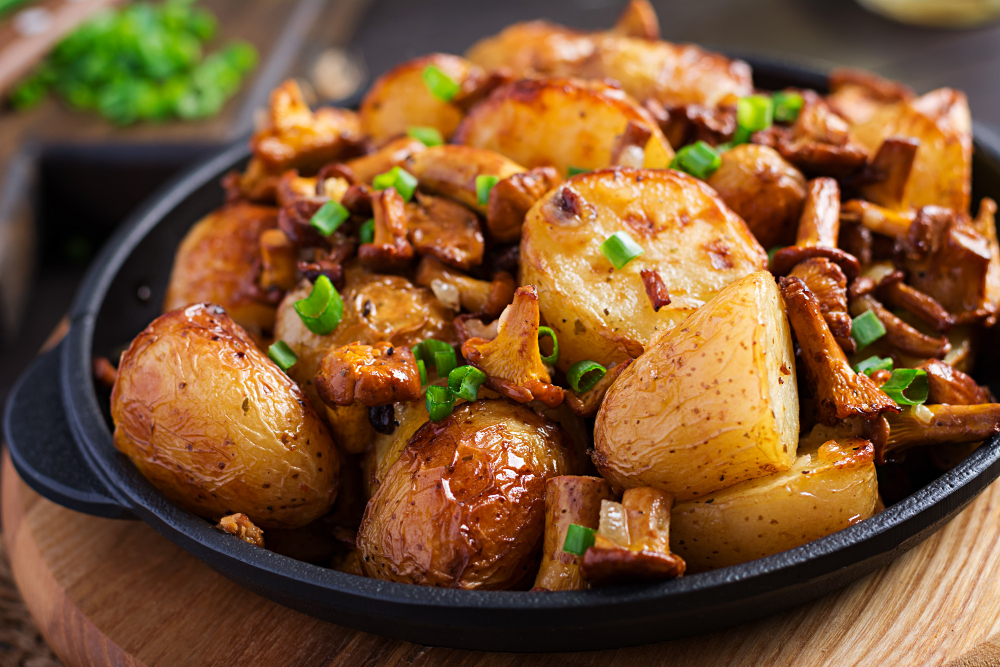
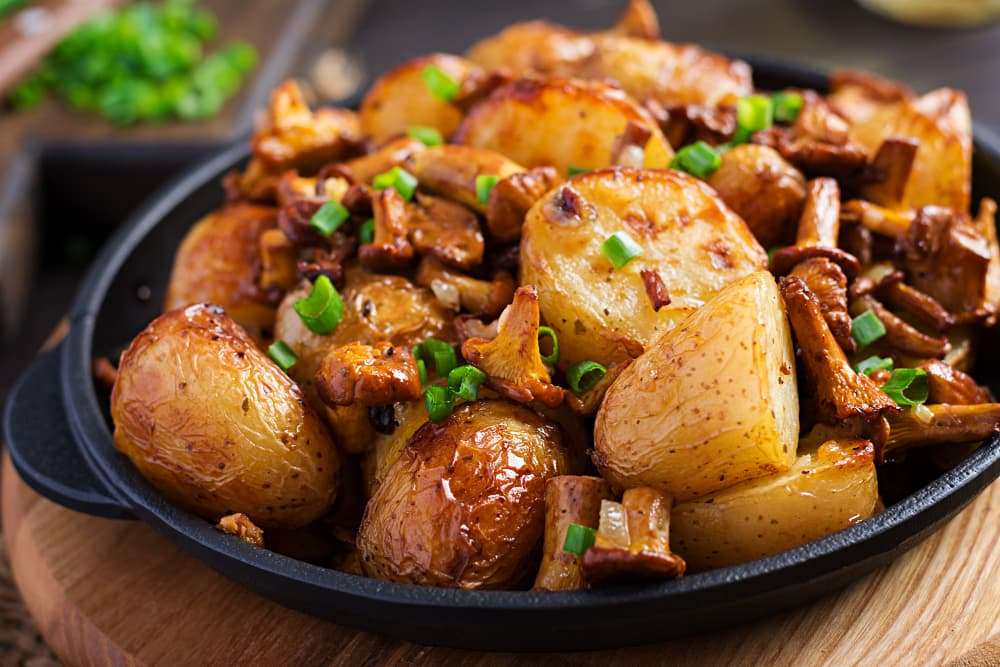
Resize images for optimization

diff --git a/bundle.js b/bundle.js
@@ -1,1 +1,1 @@
-(()=>{"use strict";var e={56:(e,r,n)=>{e.exports=function(e){var r=n.nc;r&&e.setAttribute("nonce",r)}},72:e=>{var r=[];function n(e){for(var n=-1,t=0;t<r.length;t++)if(r[t].identifier===e){n=t;break}return n}function t(e,t){for(var a={},i=[],c=0;c<e.length;c++){var s=e[c],l=t.base?s[0]+t.base:s[0],d=a[l]||0,p="".concat(l," ").concat(d);a[l]=d+1;var u=n(p),m={css:s[1],media:s[2],sourceMap:s[3],supports:s[4],layer:s[5]};if(-1!==u)r[u].references++,r[u].updater(m);else{var v=o(m,t);t.byIndex=c,r.splice(c,0,{identifier:p,updater:v,references:1})}i.push(p)}return i}function o(e,r){var n=r.domAPI(r);return n.update(e),function(r){if(r){if(r.css===e.css&&r.media===e.media&&r.sourceMap===e.sourceMap&&r.supports===e.supports&&r.layer===e.layer)return;n.update(e=r)}else n.remove()}}e.exports=function(e,o){var a=t(e=e||[],o=o||{});return function(e){e=e||[];for(var i=0;i<a.length;i++){var c=n(a[i]);r[c].references--}for(var s=t(e,o),l=0;l<a.length;l++){var d=n(a[l]);0===r[d].references&&(r[d].updater(),r.splice(d,1))}a=s}}},113:e=>{e.exports=function(e,r){if(r.styleSheet)r.styleSheet.cssText=e;else{for(;r.firstChild;)r.removeChild(r.firstChild);r.appendChild(document.createTextNode(e))}}},314:e=>{e.exports=function(e){var r=[];return r.toString=function(){return this.map(function(r){var n="",t=void 0!==r[5];return r[4]&&(n+="@supports (".concat(r[4],") {")),r[2]&&(n+="@media ".concat(r[2]," {")),t&&(n+="@layer".concat(r[5].length>0?" ".concat(r[5]):""," {")),n+=e(r),t&&(n+="}"),r[2]&&(n+="}"),r[4]&&(n+="}"),n}).join("")},r.i=function(e,n,t,o,a){"string"==typeof e&&(e=[[null,e,void 0]]);var i={};if(t)for(var c=0;c<this.length;c++){var s=this[c][0];null!=s&&(i[s]=!0)}for(var l=0;l<e.length;l++){var d=[].concat(e[l]);t&&i[d[0]]||(void 0!==a&&(void 0===d[5]||(d[1]="@layer".concat(d[5].length>0?" ".concat(d[5]):""," {").concat(d[1],"}")),d[5]=a),n&&(d[2]?(d[1]="@media ".concat(d[2]," {").concat(d[1],"}"),d[2]=n):d[2]=n),o&&(d[4]?(d[1]="@supports (".concat(d[4],") {").concat(d[1],"}"),d[4]=o):d[4]="".concat(o)),r.push(d))}},r}},417:e=>{e.exports=function(e,r){return r||(r={}),e?(e=String(e.__esModule?e.default:e),/^['"].*['"]$/.test(e)&&(e=e.slice(1,-1)),r.hash&&(e+=r.hash),/["'() \t\n]|(%20)/.test(e)||r.needQuotes?'"'.concat(e.replace(/"/g,'\\"').replace(/\n/g,"\\n"),'"'):e):e}},458:(e,r,n)=>{e.exports=n.p+"strawberry.jpg"},540:e=>{e.exports=function(e){var r=document.createElement("style");return e.setAttributes(r,e.attributes),e.insert(r,e.options),r}},601:e=>{e.exports=function(e){return e[1]}},659:e=>{var r={};e.exports=function(e,n){var t=function(e){if(void 0===r[e]){var n=document.querySelector(e);if(window.HTMLIFrameElement&&n instanceof window.HTMLIFrameElement)try{n=n.contentDocument.head}catch(e){n=null}r[e]=n}return r[e]}(e);if(!t)throw new Error("Couldn't find a style target. This probably means that the value for the 'insert' parameter is invalid.");t.appendChild(n)}},825:e=>{e.exports=function(e){if("undefined"==typeof document)return{update:function(){},remove:function(){}};var r=e.insertStyleElement(e);return{update:function(n){!function(e,r,n){var t="";n.supports&&(t+="@supports (".concat(n.supports,") {")),n.media&&(t+="@media ".concat(n.media," {"));var o=void 0!==n.layer;o&&(t+="@layer".concat(n.layer.length>0?" ".concat(n.layer):""," {")),t+=n.css,o&&(t+="}"),n.media&&(t+="}"),n.supports&&(t+="}");var a=n.sourceMap;a&&"undefined"!=typeof btoa&&(t+="\n/*# sourceMappingURL=data:application/json;base64,".concat(btoa(unescape(encodeURIComponent(JSON.stringify(a))))," */")),r.styleTagTransform(t,e,r.options)}(r,e,n)},remove:function(){!function(e){if(null===e.parentNode)return!1;e.parentNode.removeChild(e)}(r)}}}},911:(e,r,n)=>{n.d(r,{A:()=>u});var t=n(601),o=n.n(t),a=n(314),i=n.n(a),c=n(417),s=n.n(c),l=new URL(n(458),n.b),d=i()(o()),p=s()(l);d.push([e.id,`:root{--overlay-color: #0f172b;--bgcolor: #f1f8ff;--wheat-color: wheat;--white-color: #fff;--primary-color: red;--hover-color: #ff1919;--gray-color: #606060}*{margin:0;font-family:cursive;box-sizing:border-box}html{font-size:10px}body{overflow-x:hidden;max-width:100%;min-height:100vh;display:flex;flex-direction:column;background:var(--bgcolor);background:url(${p}) center/cover fixed,var(--overlay-color);background-blend-mode:soft-light;padding-top:80px}nav{position:fixed;top:0;right:0;left:0;width:inherit;background:var(--overlay-color);height:80px;display:flex;align-items:center;justify-content:center}.tool{border:none;padding:1rem;text-transform:uppercase;background:none;color:var(--wheat-color);font-weight:bold;transition:all .4s ease-out}.tool:hover{transform:scale(1.3);color:var(--primary-color)}.tool.active{color:var(--primary-color)}#menu{margin:0 3rem 0 3rem}.container{max-width:90%;margin:auto}.wrapper{display:flex;align-items:center;margin-top:6rem;justify-content:space-between}.wrapper .info{color:var(--wheat-color)}.menu-info h1,.about-info h1{color:var(--wheat-color);text-align:center;height:200px;line-height:200px}.info h1,.menu-info h1,.about-info h1{font-size:8rem}.info p{font-size:2rem}#booking-btn{margin-top:3rem;width:200px;padding:1.5rem;font-size:1.5rem;border:none;padding:1.5rem;width:200px;border-radius:.3rem;background:var(--primary-color);color:var(--wheat-color);font-weight:bold;text-transform:uppercase;cursor:pointer}#booking-btn:hover{background:var(--hover-color);color:var(--wheat-color)}#booking-btn.active{background:var(--hover-color);color:var(--wheat-color)}.not-active{background:rgba(0,0,0,0);color:var(--wheat-color)}.wrapper img{width:450px;height:auto}.animate{animation:animate 20s linear infinite}@keyframes animate{from{transform:rotateZ(0deg)}to{transform:rotateZ(360deg)}}.popular-items{font-size:3rem;margin-top:10rem;text-align:center;color:var(--wheat-color)}.row{margin-top:8rem;display:flex;flex-wrap:wrap;row-gap:2rem;justify-content:space-between;width:100%}#content .col{color:var(--wheat-color);background:var(--overlay-color)}#content .col:hover{background:var(--wheat-color);color:var(--overlay-color)}.about .col{margin-top:3rem}.about .col img{width:160px;height:auto;border-radius:50%;transition:all .5s ease-out}.about .col img:hover{transform:scale(1.1)}.about .col h3{margin-top:1rem}.about .col p{margin-bottom:1rem}.col{display:flex;flex-direction:column;align-items:center;justify-content:center;padding:4rem;width:250px;height:350px;border-radius:.5rem;box-shadow:.4rem .4rem 5rem rgba(0,0,0,.2);background:var(--white-color)}.col h3{font-size:2rem;margin-bottom:1rem}.col img{width:250px}.col p{color:var(--gray-color);font-size:1.6rem}footer{margin-top:8rem;width:100%;height:200px;display:flex;align-items:center;justify-content:center;background:var(--overlay-color);border-top:1px solid #484848}footer p{color:var(--wheat-color);font-size:1.4rem}`,""]);const u=d}},r={};function n(t){var o=r[t];if(void 0!==o)return o.exports;var a=r[t]={id:t,exports:{}};return e[t](a,a.exports,n),a.exports}n.m=e,n.n=e=>{var r=e&&e.__esModule?()=>e.default:()=>e;return n.d(r,{a:r}),r},n.d=(e,r)=>{for(var t in r)n.o(r,t)&&!n.o(e,t)&&Object.defineProperty(e,t,{enumerable:!0,get:r[t]})},n.g=function(){if("object"==typeof globalThis)return globalThis;try{return this||new Function("return this")()}catch(e){if("object"==typeof window)return window}}(),n.o=(e,r)=>Object.prototype.hasOwnProperty.call(e,r),(()=>{var e;n.g.importScripts&&(e=n.g.location+"");var r=n.g.document;if(!e&&r&&(r.currentScript&&"SCRIPT"===r.currentScript.tagName.toUpperCase()&&(e=r.currentScript.src),!e)){var t=r.getElementsByTagName("script");if(t.length)for(var o=t.length-1;o>-1&&(!e||!/^http(s?):/.test(e));)e=t[o--].src}if(!e)throw new Error("Automatic publicPath is not supported in this browser");e=e.replace(/^blob:/,"").replace(/#.*$/,"").replace(/\?.*$/,"").replace(/\/[^\/]+$/,"/"),n.p=e})(),n.b=document.baseURI||self.location.href,n.nc=void 0;var t=n(72),o=n.n(t),a=n(825),i=n.n(a),c=n(659),s=n.n(c),l=n(56),d=n.n(l),p=n(540),u=n.n(p),m=n(113),v=n.n(m),h=n(911),f={};f.styleTagTransform=v(),f.setAttributes=d(),f.insert=s().bind(null,"head"),f.domAPI=i(),f.insertStyleElement=u(),o()(h.A,f),h.A&&h.A.locals&&h.A.locals;const g=n.p+"hero.png",b=()=>{const e=document.createElement("div");e.innerHTML=`\n            <div class="wrapper container">\n                <div class="info">\n                    <h1>Enjoy Our Delicious Meal</h1>\n                    <p>\n                        Tempor erat elitr rebum at clita. Diam dolor diam ipsum\n                        sit. Aliqu diam amet diam et eos. Clita erat ipsum et\n                        lorem et sit, sed stet lorem sit clita duo justo magna\n                        dolore erat amet\n                    </p>\n                    <button id="booking-btn">Book A Table</button>\n                </div>\n                <img class="animate" src="${g}" />\n            </div>\n    `;const r=document.createElement("div");return r.innerHTML='\n        <div class="row container">\n                <div class="col">\n                    <h3>Master Chefs</h3>\n                    <p>Diam elitr kasd sed at elitr sed ipsum justo dolor sed clita amet diam</p>\n                </div>\n                <div class="col">\n                    <h3>Quality Food</h3>\n                    <p>Diam elitr kasd sed at elitr sed ipsum justo dolor sed clita amet diam</p>\n                </div>\n                <div class="col">\n                    <h3>Online Order</h3>\n                    <p>Diam elitr kasd sed at elitr sed ipsum justo dolor sed clita amet diam</p>\n                </div>\n                <div class="col">\n                    <h3>24/7 Service</h3>\n                    <p>Diam elitr kasd sed at elitr sed ipsum justo dolor sed clita amet diam</p>\n                </div>\n            </div>\n        </div>\n        </div>\n    ',e.appendChild(r),e},y=n.p+"lasagna.jpg",w=n.p+"pie.jpg",x=n.p+"potatoe.jpg",j=n.p+"sanwich.jpg",k=n.p+"pizza.jpg",M=n.p+"kagyana.jpg",T=n.p+"vegetable.jpg";var E=n(458);const S=()=>{const e=document.createElement("div");e.innerHTML='\n            <div class="menu-info">\n                <h1>Food Menu</h1>\n            </div>\n    ';const r=document.createElement("div");return r.innerHTML=`\n        <h3 class="popular-items">Table Menu</h3>\n            <div class="row container">\n                <div class="col">\n                    <h3>Master Chefs</h3>\n                    <img src="${y}" />\n                </div>\n                <div class="col">\n                    <h3>Quality Food</h3>\n                    <img src="${w}" />\n                </div>\n                <div class="col">\n                    <h3>Online Order</h3>\n                    <img src="${x}" />\n                </div>\n                <div class="col">\n                    <h3>24/7 Service</h3>\n                    <img src="${j}" />\n                </div>\n                <div class="col">\n                    <h3>Master Chefs</h3>\n                    <img src="${k}" />\n                </div>\n                <div class="col">\n                    <h3>Quality Food</h3>\n                    <img src="${M}" />\n                </div>\n                <div class="col">\n                    <h3>24/7 Service</h3>\n                    <img src="${T}" />\n                </div>\n                <div class="col">\n                    <h3>24/7 Service</h3>\n                    <img src="${E}" />\n                </div>\n            </div>\n        </div>\n\n    `,e.appendChild(r),e},C=n.p+"team-1.jpg",L=n.p+"team-2.jpg",$=n.p+"team-3.jpg",A=n.p+"team-4.jpg",D=()=>{const e=document.createElement("div");e.innerHTML='\n            <div class="about-info">\n                <h1>About Us</h1>\n            </div>\n    ';const r=document.createElement("div");return r.innerHTML=`\n        <h3 class="popular-items">Our Master Chefs</h3>\n            <div class="row container">\n                <div class="col">\n                    <img src="${C}" />\n                    <h3>Full Name</h3>\n                    <p>Designa</p>\n                </div>\n                <div class="col">\n                    <img src="${L}" />\n                    <h3>Full Name</h3>\n                    <p>Designa</p>\n                </div>\n                <div class="col">\n                    <img src="${$}" />\n                    <h3>Full Name</h3>\n                    <p>Designa</p>\n                </div>\n                <div class="col">\n                    <img src="${A}" />\n                    <h3>Full Name</h3>\n                    <p>Designa</p>\n                </div>\n            </div>\n        </div>\n\n    `,e.appendChild(r),e},z=document.querySelector("#content"),F=document.querySelector("#home-btn"),O=document.querySelector("#menu-btn"),N=document.querySelector("#about-btn"),H=document.querySelectorAll(".tool");H.forEach(e=>{e.addEventListener("click",()=>{H.forEach(e=>{e.classList.remove("active")}),e.classList.add("active")})});const I=e=>{q(),z.appendChild(e())},q=()=>{z.innerHTML=""};F.addEventListener("click",()=>{I(b)}),O.addEventListener("click",()=>I(S)),N.addEventListener("click",()=>I(D)),document.addEventListener("DOMContentLoaded",()=>{I(b)})})();
+(()=>{"use strict";var e={56:(e,n,r)=>{e.exports=function(e){var n=r.nc;n&&e.setAttribute("nonce",n)}},72:e=>{var n=[];function r(e){for(var r=-1,t=0;t<n.length;t++)if(n[t].identifier===e){r=t;break}return r}function t(e,t){for(var a={},i=[],c=0;c<e.length;c++){var l=e[c],s=t.base?l[0]+t.base:l[0],d=a[s]||0,p="".concat(s," ").concat(d);a[s]=d+1;var u=r(p),m={css:l[1],media:l[2],sourceMap:l[3],supports:l[4],layer:l[5]};if(-1!==u)n[u].references++,n[u].updater(m);else{var v=o(m,t);t.byIndex=c,n.splice(c,0,{identifier:p,updater:v,references:1})}i.push(p)}return i}function o(e,n){var r=n.domAPI(n);return r.update(e),function(n){if(n){if(n.css===e.css&&n.media===e.media&&n.sourceMap===e.sourceMap&&n.supports===e.supports&&n.layer===e.layer)return;r.update(e=n)}else r.remove()}}e.exports=function(e,o){var a=t(e=e||[],o=o||{});return function(e){e=e||[];for(var i=0;i<a.length;i++){var c=r(a[i]);n[c].references--}for(var l=t(e,o),s=0;s<a.length;s++){var d=r(a[s]);0===n[d].references&&(n[d].updater(),n.splice(d,1))}a=l}}},113:e=>{e.exports=function(e,n){if(n.styleSheet)n.styleSheet.cssText=e;else{for(;n.firstChild;)n.removeChild(n.firstChild);n.appendChild(document.createTextNode(e))}}},314:e=>{e.exports=function(e){var n=[];return n.toString=function(){return this.map(function(n){var r="",t=void 0!==n[5];return n[4]&&(r+="@supports (".concat(n[4],") {")),n[2]&&(r+="@media ".concat(n[2]," {")),t&&(r+="@layer".concat(n[5].length>0?" ".concat(n[5]):""," {")),r+=e(n),t&&(r+="}"),n[2]&&(r+="}"),n[4]&&(r+="}"),r}).join("")},n.i=function(e,r,t,o,a){"string"==typeof e&&(e=[[null,e,void 0]]);var i={};if(t)for(var c=0;c<this.length;c++){var l=this[c][0];null!=l&&(i[l]=!0)}for(var s=0;s<e.length;s++){var d=[].concat(e[s]);t&&i[d[0]]||(void 0!==a&&(void 0===d[5]||(d[1]="@layer".concat(d[5].length>0?" ".concat(d[5]):""," {").concat(d[1],"}")),d[5]=a),r&&(d[2]?(d[1]="@media ".concat(d[2]," {").concat(d[1],"}"),d[2]=r):d[2]=r),o&&(d[4]?(d[1]="@supports (".concat(d[4],") {").concat(d[1],"}"),d[4]=o):d[4]="".concat(o)),n.push(d))}},n}},417:e=>{e.exports=function(e,n){return n||(n={}),e?(e=String(e.__esModule?e.default:e),/^['"].*['"]$/.test(e)&&(e=e.slice(1,-1)),n.hash&&(e+=n.hash),/["'() \t\n]|(%20)/.test(e)||n.needQuotes?'"'.concat(e.replace(/"/g,'\\"').replace(/\n/g,"\\n"),'"'):e):e}},458:(e,n,r)=>{e.exports=r.p+"strawberry.jpg"},540:e=>{e.exports=function(e){var n=document.createElement("style");return e.setAttributes(n,e.attributes),e.insert(n,e.options),n}},601:e=>{e.exports=function(e){return e[1]}},659:e=>{var n={};e.exports=function(e,r){var t=function(e){if(void 0===n[e]){var r=document.querySelector(e);if(window.HTMLIFrameElement&&r instanceof window.HTMLIFrameElement)try{r=r.contentDocument.head}catch(e){r=null}n[e]=r}return n[e]}(e);if(!t)throw new Error("Couldn't find a style target. This probably means that the value for the 'insert' parameter is invalid.");t.appendChild(r)}},825:e=>{e.exports=function(e){if("undefined"==typeof document)return{update:function(){},remove:function(){}};var n=e.insertStyleElement(e);return{update:function(r){!function(e,n,r){var t="";r.supports&&(t+="@supports (".concat(r.supports,") {")),r.media&&(t+="@media ".concat(r.media," {"));var o=void 0!==r.layer;o&&(t+="@layer".concat(r.layer.length>0?" ".concat(r.layer):""," {")),t+=r.css,o&&(t+="}"),r.media&&(t+="}"),r.supports&&(t+="}");var a=r.sourceMap;a&&"undefined"!=typeof btoa&&(t+="\n/*# sourceMappingURL=data:application/json;base64,".concat(btoa(unescape(encodeURIComponent(JSON.stringify(a))))," */")),n.styleTagTransform(t,e,n.options)}(n,e,r)},remove:function(){!function(e){if(null===e.parentNode)return!1;e.parentNode.removeChild(e)}(n)}}}},911:(e,n,r)=>{r.d(n,{A:()=>u});var t=r(601),o=r.n(t),a=r(314),i=r.n(a),c=r(417),l=r.n(c),s=new URL(r(458),r.b),d=i()(o()),p=l()(s);d.push([e.id,`:root{--overlay-color: #0f172b;--bgcolor: #f1f8ff;--wheat-color: wheat;--white-color: #fff;--primary-color: red;--hover-color: #ff1919;--gray-color: #606060}*{margin:0;font-family:cursive;box-sizing:border-box}html{font-size:10px}body{overflow-x:hidden;max-width:100%;min-height:100vh;display:flex;flex-direction:column;background:var(--bgcolor);background:url(${p}) center/cover fixed,var(--overlay-color);background-blend-mode:soft-light;padding-top:80px}nav{position:fixed;top:0;right:0;left:0;width:inherit;background:var(--overlay-color);height:80px;display:flex;align-items:center;justify-content:center}.tool{border:none;padding:1rem;text-transform:uppercase;background:none;color:var(--wheat-color);font-weight:bold;transition:all .4s ease-out}.tool:hover{transform:scale(1.3);color:var(--primary-color)}.tool.active{color:var(--primary-color)}#menu{margin:0 3rem 0 3rem}.container{max-width:90%;margin:auto}.wrapper{display:flex;align-items:center;margin-top:6rem;justify-content:space-between}.wrapper .info{color:var(--wheat-color)}.menu-info h1,.about-info h1{color:var(--wheat-color);text-align:center;height:200px;line-height:200px}.info h1,.menu-info h1,.about-info h1{font-size:8rem}.info p{font-size:2rem}#booking-btn{margin-top:3rem;width:200px;padding:1.5rem;font-size:1.5rem;border:none;padding:1.5rem;width:200px;border-radius:.3rem;background:var(--primary-color);color:var(--wheat-color);font-weight:bold;text-transform:uppercase;cursor:pointer}#booking-btn:hover{background:var(--hover-color);color:var(--wheat-color)}#booking-btn.active{background:var(--hover-color);color:var(--wheat-color)}.not-active{background:rgba(0,0,0,0);color:var(--wheat-color)}.wrapper img{width:450px;height:auto}.animate{animation:animate 20s linear infinite}@keyframes animate{from{transform:rotateZ(0deg)}to{transform:rotateZ(360deg)}}.popular-items{font-size:3rem;margin-top:10rem;text-align:center;color:var(--wheat-color)}.row{margin-top:8rem;display:flex;flex-wrap:wrap;row-gap:2rem;justify-content:space-between;width:100%}#content .col{color:var(--wheat-color);background:var(--overlay-color)}#content .col:hover{background:var(--wheat-color);color:var(--overlay-color)}.about .col{margin-top:3rem}.about .col img{width:160px;height:auto;border-radius:50%;transition:all .5s ease-out}.about .col img:hover{transform:scale(1.1)}.about .col h3{margin-top:1rem}.about .col p{margin-bottom:1rem}.col{display:flex;flex-direction:column;align-items:center;justify-content:center;padding:4rem;width:250px;height:350px;border-radius:.5rem;box-shadow:.4rem .4rem 5rem rgba(0,0,0,.2);background:var(--white-color)}.col h3{font-size:2rem;margin-bottom:1rem}.col img{width:250px}.col p{color:var(--gray-color);font-size:1.6rem}footer{margin-top:8rem;width:100%;height:200px;display:flex;align-items:center;justify-content:center;background:var(--overlay-color);border-top:1px solid #484848}footer p{color:var(--wheat-color);font-size:1.4rem}`,""]);const u=d}},n={};function r(t){var o=n[t];if(void 0!==o)return o.exports;var a=n[t]={id:t,exports:{}};return e[t](a,a.exports,r),a.exports}r.m=e,r.n=e=>{var n=e&&e.__esModule?()=>e.default:()=>e;return r.d(n,{a:n}),n},r.d=(e,n)=>{for(var t in n)r.o(n,t)&&!r.o(e,t)&&Object.defineProperty(e,t,{enumerable:!0,get:n[t]})},r.g=function(){if("object"==typeof globalThis)return globalThis;try{return this||new Function("return this")()}catch(e){if("object"==typeof window)return window}}(),r.o=(e,n)=>Object.prototype.hasOwnProperty.call(e,n),(()=>{var e;r.g.importScripts&&(e=r.g.location+"");var n=r.g.document;if(!e&&n&&(n.currentScript&&"SCRIPT"===n.currentScript.tagName.toUpperCase()&&(e=n.currentScript.src),!e)){var t=n.getElementsByTagName("script");if(t.length)for(var o=t.length-1;o>-1&&(!e||!/^http(s?):/.test(e));)e=t[o--].src}if(!e)throw new Error("Automatic publicPath is not supported in this browser");e=e.replace(/^blob:/,"").replace(/#.*$/,"").replace(/\?.*$/,"").replace(/\/[^\/]+$/,"/"),r.p=e})(),r.b=document.baseURI||self.location.href,r.nc=void 0;var t=r(72),o=r.n(t),a=r(825),i=r.n(a),c=r(659),l=r.n(c),s=r(56),d=r.n(s),p=r(540),u=r.n(p),m=r(113),v=r.n(m),h=r(911),f={};f.styleTagTransform=v(),f.setAttributes=d(),f.insert=l().bind(null,"head"),f.domAPI=i(),f.insertStyleElement=u(),o()(h.A,f),h.A&&h.A.locals&&h.A.locals;const g=r.p+"hero.png",b=()=>{const e=document.createElement("div");e.innerHTML=`\n            <div class="wrapper container">\n                <div class="info">\n                    <h1>Enjoy Our Delicious Meal</h1>\n                    <p>\n                        Tempor erat elitr rebum at clita. Diam dolor diam ipsum\n                        sit. Aliqu diam amet diam et eos. Clita erat ipsum et\n                        lorem et sit, sed stet lorem sit clita duo justo magna\n                        dolore erat amet\n                    </p>\n                    <button id="booking-btn">Book A Table</button>\n                </div>\n                <img class="animate" src="${g}" loading="lazy" />\n            </div>\n    `;const n=document.createElement("div");return n.innerHTML='\n        <div class="row container">\n                <div class="col">\n                    <h3>Master Chefs</h3>\n                    <p>Diam elitr kasd sed at elitr sed ipsum justo dolor sed clita amet diam</p>\n                </div>\n                <div class="col">\n                    <h3>Quality Food</h3>\n                    <p>Diam elitr kasd sed at elitr sed ipsum justo dolor sed clita amet diam</p>\n                </div>\n                <div class="col">\n                    <h3>Online Order</h3>\n                    <p>Diam elitr kasd sed at elitr sed ipsum justo dolor sed clita amet diam</p>\n                </div>\n                <div class="col">\n                    <h3>24/7 Service</h3>\n                    <p>Diam elitr kasd sed at elitr sed ipsum justo dolor sed clita amet diam</p>\n                </div>\n            </div>\n        </div>\n        </div>\n    ',e.appendChild(n),e},y=r.p+"lasagna.jpg",w=r.p+"pie.jpg",x=r.p+"potatoe.jpg",j=r.p+"sanwich.jpg",k=r.p+"pizza.jpg",M=r.p+"kagyana.jpg",T=r.p+"vegetable.jpg";var E=r(458);const S=()=>{const e=document.createElement("div");e.innerHTML='\n            <div class="menu-info">\n                <h1>Food Menu</h1>\n            </div>\n    ';const n=document.createElement("div");return n.innerHTML=`\n        <h3 class="popular-items">Table Menu</h3>\n            <div class="row container">\n                <div class="col">\n                    <h3>Master Chefs</h3>\n                    <img src="${y}" loading="lazy"/>\n                </div>\n                <div class="col">\n                    <h3>Quality Food</h3>\n                    <img src="${w}" loading="lazy"/>\n                </div>\n                <div class="col">\n                    <h3>Online Order</h3>\n                    <img src="${x}" loading="lazy"/>\n                </div>\n                <div class="col">\n                    <h3>24/7 Service</h3>\n                    <img src="${j}" loading="lazy"/>\n                </div>\n                <div class="col">\n                    <h3>Master Chefs</h3>\n                    <img src="${k}" loading="lazy"/>\n                </div>\n                <div class="col">\n                    <h3>Quality Food</h3>\n                    <img src="${M}" loading="lazy"/>\n                </div>\n                <div class="col">\n                    <h3>24/7 Service</h3>\n                    <img src="${T}" loading="lazy"/>\n                </div>\n                <div class="col">\n                    <h3>24/7 Service</h3>\n                    <img src="${E}" loading="lazy"/>\n                </div>\n            </div>\n        </div>\n\n    `,e.appendChild(n),e},z=r.p+"team-1.jpg",C=r.p+"team-2.jpg",L=r.p+"team-3.jpg",$=r.p+"team-4.jpg",A=()=>{const e=document.createElement("div");e.innerHTML='\n            <div class="about-info">\n                <h1>About Us</h1>\n            </div>\n    ';const n=document.createElement("div");return n.innerHTML=`\n        <h3 class="popular-items">Our Master Chefs</h3>\n            <div class="row container">\n                <div class="col">\n                    <img src="${z}" />\n                    <h3>Full Name</h3>\n                    <p>Designa</p>\n                </div>\n                <div class="col">\n                    <img src="${C}" />\n                    <h3>Full Name</h3>\n                    <p>Designa</p>\n                </div>\n                <div class="col">\n                    <img src="${L}" />\n                    <h3>Full Name</h3>\n                    <p>Designa</p>\n                </div>\n                <div class="col">\n                    <img src="${$}" />\n                    <h3>Full Name</h3>\n                    <p>Designa</p>\n                </div>\n            </div>\n        </div>\n\n    `,e.appendChild(n),e},D=document.querySelector("#content"),F=document.querySelector("#home-btn"),O=document.querySelector("#menu-btn"),N=document.querySelector("#about-btn"),H=document.querySelectorAll(".tool");H.forEach(e=>{e.addEventListener("click",()=>{H.forEach(e=>{e.classList.remove("active")}),e.classList.add("active")})});const I=e=>{q(),D.appendChild(e())},q=()=>{D.innerHTML=""};F.addEventListener("click",()=>{I(b)}),O.addEventListener("click",()=>I(S)),N.addEventListener("click",()=>I(A)),document.addEventListener("DOMContentLoaded",()=>{I(b)})})();
